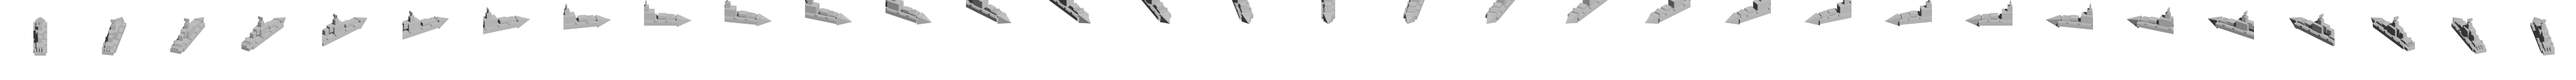
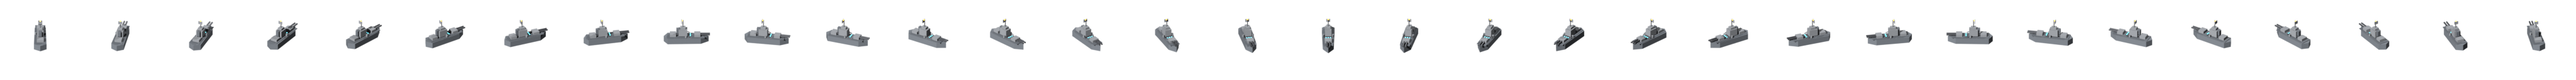
THEATER: production-quality Leviathan apex naval dreadnought (32-facing turntable)
Second of the four P4 spectacle apex units (after the Citadel). The Leviathan
arsenal dreadnought was a plain grey block; rework it as a detailed 32-facing
turntable: a bmesh ship hull with a pointed bow, twin-barrel main gun turrets
fore and aft, amidships VLS missile cells with glowing hatches, a central bridge
island with lit windows, a funnel, a radar mast with phased-array panel + amber
sensor, and CIWS mounts — haze grey. Reads as a modern warship at every facing.

build_leviathan added to render_theater_spectacle.py (+ a bmesh _hull_poly
helper). ortho_scale 18.5 dials the broadside to the existing 76px so it is a
drop-in; FrameSize/FrameAmount re-embedded via --png-sheet-import.

Verified: check-yaml 0 errors, clean boot (process survives 30s+, no exception
log), all 8 cardinal facings eyeballed (bow tracks heading). archangel/tempest next.

Changed region(s): [[0.0, 0.0, 1.0, 0.6875]]

diff --git a/design/art/render_theater_spectacle.py b/design/art/render_theater_spectacle.py
@@ -26,7 +26,7 @@
 # so the rebuilt body is a drop-in (same in-world size). Sequence (mods/theater/sequences/theater.yaml)
 # already declares Facings:32 + InterpolatedFacings:64 + a `muzzle` strip, so the strip is a drop-in.
 
-import bpy, math, os
+import bpy, math, os, bmesh
 
 N = 32
 F = 128
@@ -62,6 +62,19 @@ def _cyl(loc, r, h, mat, v=16, rot=(0, 0, 0)):
     o.data.materials.clear(); o.data.materials.append(mat); _made.append(o); return o
 
 
+def _hull_poly(verts2d, ztop, depth, mat):
+    """Extrude a 2D outline (XY) down by `depth` — used for the ship hull (pointed bow at +Y)."""
+    me = bpy.data.meshes.new('GEN_hullm'); ob = bpy.data.objects.new('GEN_hull', me)
+    bpy.context.scene.collection.objects.link(ob)
+    bm = bmesh.new()
+    vs = [bm.verts.new((x, y, ztop)) for (x, y) in verts2d]
+    f = bm.faces.new(vs)
+    r = bmesh.ops.extrude_face_region(bm, geom=[f])
+    bmesh.ops.translate(bm, vec=(0, 0, -depth), verts=[e for e in r['geom'] if isinstance(e, bmesh.types.BMVert)])
+    bm.to_mesh(me); bm.free()
+    ob.data.materials.append(mat); _made.append(ob); return ob
+
+
 def build_citadel():
     """Apex super-heavy land dreadnought: long tracked hull, sloped glacis, massive central turret with
     TWIN main guns (front=+Y), side sponsons, AA cupola and a glowing forward sensor. Dark military green."""
@@ -95,7 +108,39 @@ def build_citadel():
     return 12.5  # ortho_scale (matches existing broadside size)
 
 
-BODIES = {'citadel': build_citadel}   # leviathan/archangel/tempest added as they are reworked
+def build_leviathan():
+    """Apex naval arsenal dreadnought: bmesh ship hull (pointed bow +Y), twin-barrel main turrets fore
+    and aft, amidships VLS cells with glowing hatches, central bridge island, funnel, radar mast with a
+    phased-array panel + amber sensor, CIWS mounts. Haze-grey. ortho 18.5 -> ~76px broadside (drop-in)."""
+    hull = node_mat('GEN_hull', (0.30, 0.33, 0.37), 0.6, 0.2)
+    deck = node_mat('GEN_deck', (0.20, 0.22, 0.25), 0.7)
+    sup = node_mat('GEN_sup', (0.42, 0.44, 0.47), 0.5)
+    gun = node_mat('GEN_gun', (0.17, 0.18, 0.20), 0.4, 0.5)
+    glow = node_mat('GEN_glow', (0.1, 0.5, 0.7), 0.3, 0.0, emit=(0.15, 0.8, 1.0), estr=5.0)
+    amber = node_mat('GEN_amber', (0.7, 0.4, 0.05), 0.3, 0.0, emit=(1.0, 0.55, 0.05), estr=4.0)
+    _hull_poly([(0, 5.6), (1.25, 3.8), (1.45, -3.8), (0, -4.7), (-1.45, -3.8), (-1.25, 3.8)], 1.1, 1.4, hull)
+    _box((0, 0.4, 1.18), (2.3, 8.6, 0.12), deck)
+    _box((0, 3.0, 1.5), (1.6, 1.4, 0.7), sup)                               # fwd turret
+    _cyl((-0.3, 4.6, 1.6), 0.16, 2.6, gun, rot=(90, 0, 0)); _cyl((0.3, 4.6, 1.6), 0.16, 2.6, gun, rot=(90, 0, 0))
+    _box((0, -2.6, 1.5), (1.6, 1.4, 0.7), sup)                              # aft turret
+    _cyl((-0.3, -1.2, 1.6), 0.16, 2.6, gun, rot=(90, 0, 0)); _cyl((0.3, -1.2, 1.6), 0.16, 2.6, gun, rot=(90, 0, 0))
+    for gy in (1.4, 0.6):                                                   # VLS cells
+        for gx in (-0.5, 0.0, 0.5):
+            _box((gx, gy, 1.32), (0.3, 0.3, 0.18), gun)
+            _box((gx, gy, 1.42), (0.18, 0.18, 0.06), glow)
+    _box((0, -0.3, 2.2), (1.5, 2.0, 1.6), sup)                             # bridge island
+    _box((0, -0.3, 3.1), (1.0, 1.2, 0.8), sup)
+    _box((0.0, -0.3, 3.0), (0.5, 0.06, 0.5), glow)                         # bridge windows
+    _box((0, -1.4, 2.5), (0.7, 0.8, 1.2), deck)                            # funnel
+    _cyl((0, -0.3, 4.2), 0.07, 2.2, gun)                                   # mast
+    _box((0, -0.6, 4.9), (0.9, 0.12, 0.7), sup)                            # phased-array panel
+    _box((0, -0.45, 5.2), (0.3, 0.1, 0.18), amber)
+    for x in (-1.1, 1.1):                                                  # CIWS
+        _cyl((x, 0.4, 1.5), 0.22, 0.5, sup); _cyl((x, 0.9, 1.55), 0.06, 0.7, gun, rot=(70, 0, 0))
+    return 18.5
+
+
+BODIES = {'citadel': build_citadel, 'leviathan': build_leviathan}   # archangel/tempest added as reworked
 
 
 def turntable_cam(ortho):
